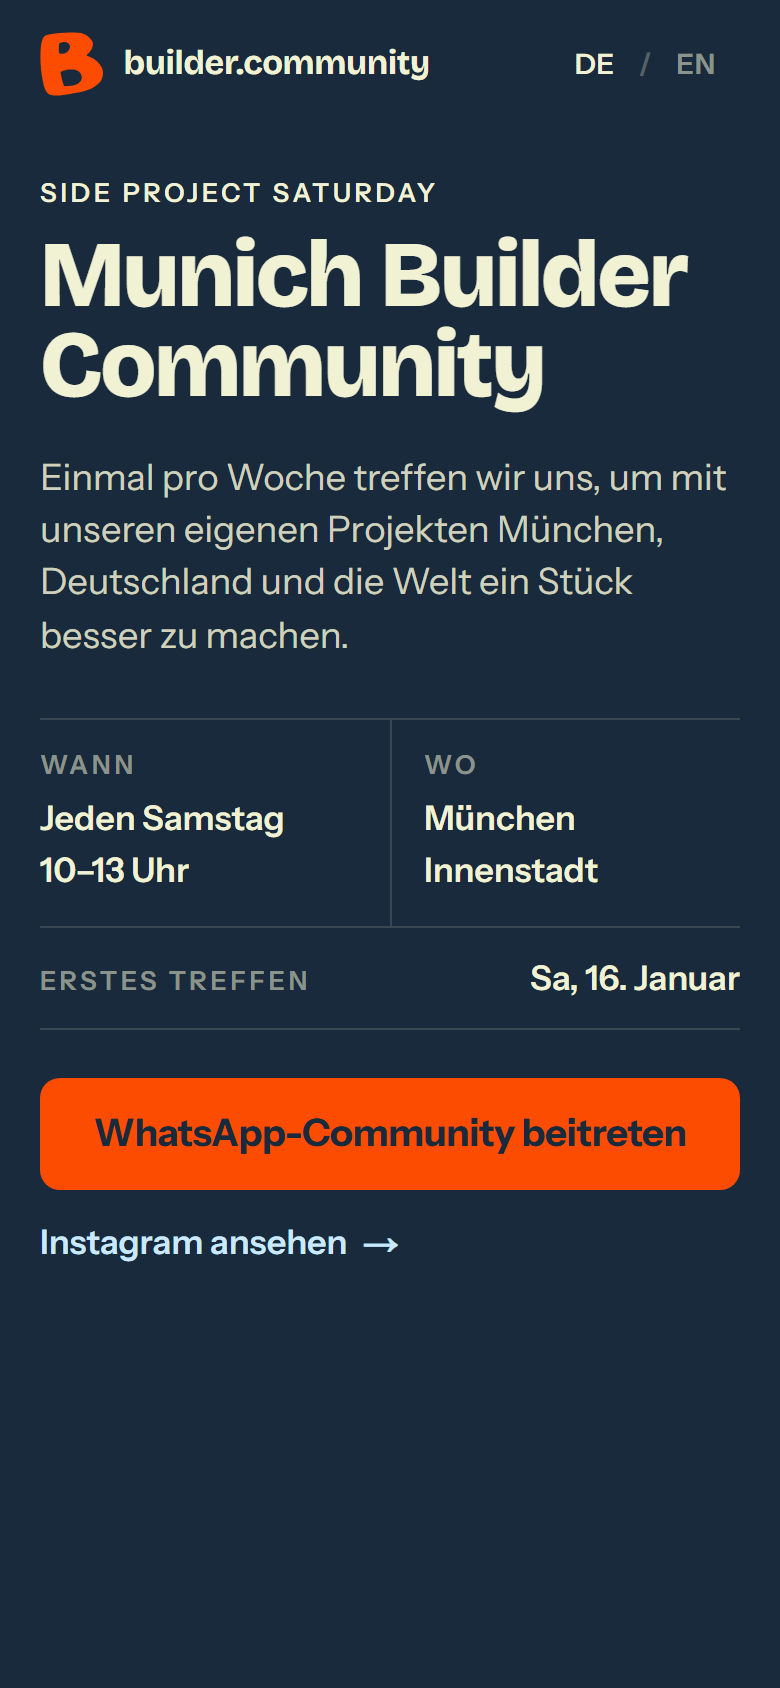
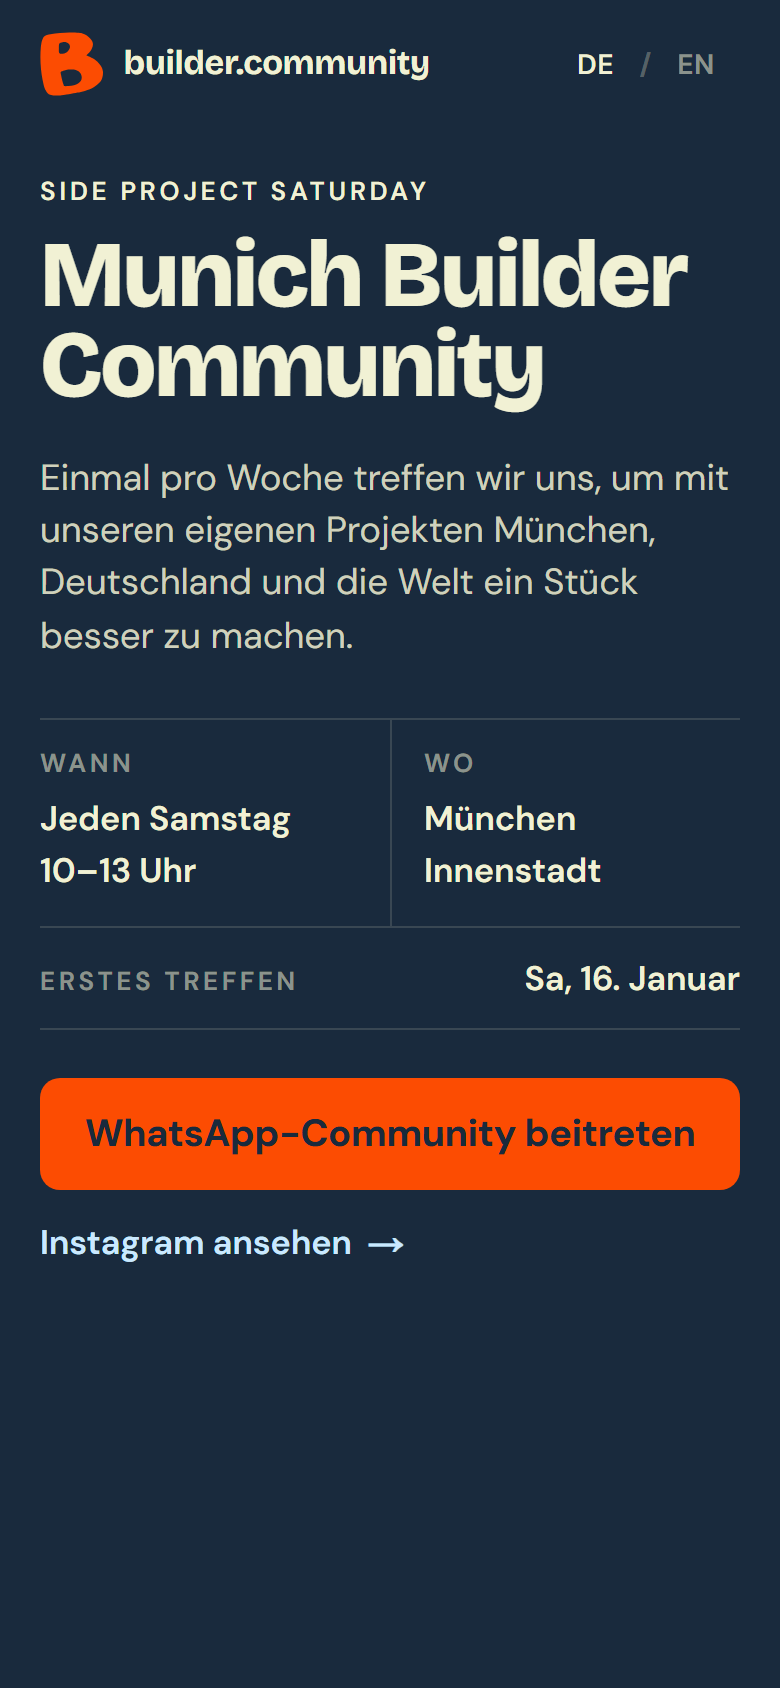
Textschrift DM Sans statt Instrument Sans (#12)
* feat: Textschrift DM Sans statt Instrument Sans

DM Sans gibt es auch in Canva, so nutzen Website und Social-Media-Grafiken
dieselben zwei Schriften. Weiter selbst gehostet über next/font, mit
optischer Größe (opsz). Der Button bekommt 4 statt 8 px seitlichen
Innenabstand, damit „WhatsApp-Community beitreten“ auch bei 360 px
Bildschirmbreite in eine Zeile passt (305 px Text, 312 px Platz).

* docs: DM Sans im Brief und Entscheidungslog, neue Screenshots

---------

diff --git a/app/(de)/layout.tsx b/app/(de)/layout.tsx
@@ -1,5 +1,5 @@
 import type { Metadata, Viewport } from "next";
-import { Bricolage_Grotesque, Instrument_Sans } from "next/font/google";
+import { Bricolage_Grotesque, DM_Sans } from "next/font/google";
 import { colors } from "@/lib/brand";
 import "../globals.css";
 
@@ -18,10 +18,13 @@ const bricolage = Bricolage_Grotesque({
   variable: "--font-bricolage",
 });
 
-// Fließtext
-const instrumentSans = Instrument_Sans({
+// Fließtext. DM Sans gibt es auch in Canva, so nutzen Website und
+// Social-Media-Grafiken dieselben zwei Schriften. Auch hier passt „opsz“ die
+// Form an die Größe an: Kleine Schrift wird etwas offener und besser lesbar.
+const dmSans = DM_Sans({
   subsets: ["latin"],
-  variable: "--font-instrument",
+  axes: ["opsz"],
+  variable: "--font-dm-sans",
 });
 
 export const metadata: Metadata = {
@@ -40,10 +43,7 @@ export default function RootLayout({ children }: LayoutProps<"/">) {
   return (
     // Die Font-Klassen gehören an <html>, damit ihre CSS-Variablen dort liegen,
     // wo Tailwind sie liest (:root). Siehe app/globals.css.
-    <html
-      lang="de"
-      className={`${bricolage.variable} ${instrumentSans.variable}`}
-    >
+    <html lang="de" className={`${bricolage.variable} ${dmSans.variable}`}>
       <body>{children}</body>
     </html>
   );

diff --git a/components/ButtonLink.tsx b/components/ButtonLink.tsx
@@ -17,7 +17,9 @@ const tones = {
 // Button als Link: Navy-Schrift, fett und 19px groß. Auf Orange gilt der
 // Kontrast von 4,3:1 erst so als ausreichend (große Schrift); auf Creme sind es 12,7:1.
 // Leicht engere Laufweite und knapper Innenabstand: So passt
-// „WhatsApp-Community beitreten“ auch bei 360px Bildschirmbreite in eine Zeile.
+// „WhatsApp-Community beitreten“ auch bei 360px Bildschirmbreite in eine Zeile
+// (gemessen mit DM Sans: 305 px Text, 312 px Platz). Der Button ist immer so
+// breit wie die Seite, der Text steht mittig: Den kleinen Seitenabstand sieht man nicht.
 // Hover: Farbwechsel. Beim Antippen wird er kurz minimal kleiner.
 export function ButtonLink({
   href,
@@ -28,7 +30,7 @@ export function ButtonLink({
   return (
     <a
       href={href}
-      className={`inline-flex min-h-14 items-center justify-center rounded-brand px-2 py-3 text-center text-button font-bold tracking-[-0.01em] text-navy transition duration-150 ease-out active:scale-[0.98] ${tones[tone]} ${className}`}
+      className={`inline-flex min-h-14 items-center justify-center rounded-brand px-1 py-3 text-center text-button font-bold tracking-[-0.01em] text-navy transition duration-150 ease-out active:scale-[0.98] ${tones[tone]} ${className}`}
     >
       {children}
     </a>

diff --git a/app/globals.css b/app/globals.css
@@ -23,11 +23,11 @@
 
   /*
    * Schriften
-   * Die Variablen --font-bricolage und --font-instrument setzt next/font
+   * Die Variablen --font-bricolage und --font-dm-sans setzt next/font
    * im Root-Layout auf <html> (= :root). Nur deshalb funktioniert var() hier.
    */
   --font-display: var(--font-bricolage), ui-sans-serif, system-ui, sans-serif;
-  --font-sans: var(--font-instrument), ui-sans-serif, system-ui, sans-serif;
+  --font-sans: var(--font-dm-sans), ui-sans-serif, system-ui, sans-serif;
 
   /*
    * Schriftgrößen, fließend zwischen Handy (390px) und Desktop (1440px).

diff --git a/docs/ENTSCHEIDUNGEN.md b/docs/ENTSCHEIDUNGEN.md
@@ -3,6 +3,15 @@
 Was wir festgelegt haben und wo wir bewusst vom [Brief](BRIEF.md) abweichen, jeweils mit Begründung.
 Neueste Einträge oben.
 
+## 2026-11-25 · Textschrift DM Sans statt Instrument Sans
+
+- Die Textschrift ist jetzt **DM Sans**. Instrument Sans gibt es in Canva nicht, DM Sans schon. So nutzen Website
+  und Social-Media-Grafiken dieselben zwei Schriften: Bricolage Grotesque für Überschriften, DM Sans für Text.
+  Beide sind frei (SIL Open Font License) und werden auf der Website weiter selbst gehostet.
+- DM Sans läuft etwas breiter: „WhatsApp-Community beitreten“ braucht bei 19 px fett 305 px. Der Button hat deshalb
+  4 statt 8 px seitlichen Innenabstand (312 px Platz bei 360 px Bildschirmbreite). Das sieht man nicht, weil der
+  Button immer die volle Breite hat und der Text mittig steht.
+
 ## 2026-11-24 · Samstags 10–13 Uhr, Launch um 12 Uhr mit Ort
 
 - Treffen jeden Samstag **10–13 Uhr** (vorher 9–12). Weiter drei Stunden, die FAQ „Muss ich die ganzen drei

diff --git a/docs/BRIEF.md b/docs/BRIEF.md
@@ -131,7 +131,7 @@ Johannes mag den Vibe und die Farbwirkung, findet die Seite aber zu überladen.
 ### Typografie
 
 - **Überschriften:** Bricolage Grotesque (variabel), fett (700–800), Laufweite leicht eng (−0.02em). Charakterstark und passend zum handgezeichneten B. Zum Vergleich einmal mit Schibsted Grotesk testen (nüchterner) und Johannes beide Varianten auf dem Handy zeigen.
-- **Fließtext:** Instrument Sans, 17–18 px auf dem Handy, Zeilenhöhe ca. 1,55, Zeilenlänge maximal ca. 62 Zeichen.
+- **Fließtext:** DM Sans (gibt es auch in Canva, siehe Entscheidungslog), 17–18 px auf dem Handy, Zeilenhöhe ca. 1,55, Zeilenlänge maximal ca. 62 Zeichen.
 - Maximal zwei Schriften. Kein Inter, kein Geist (zu generisch).
 - Das Font-Subset `latin` reicht (enthält ä, ö, ü, ß).
 - Schriftgrößen fließend mit `clamp()`: H1 auf dem Handy ca. 44–52 px, auf dem Desktop bis ca. 112 px.
